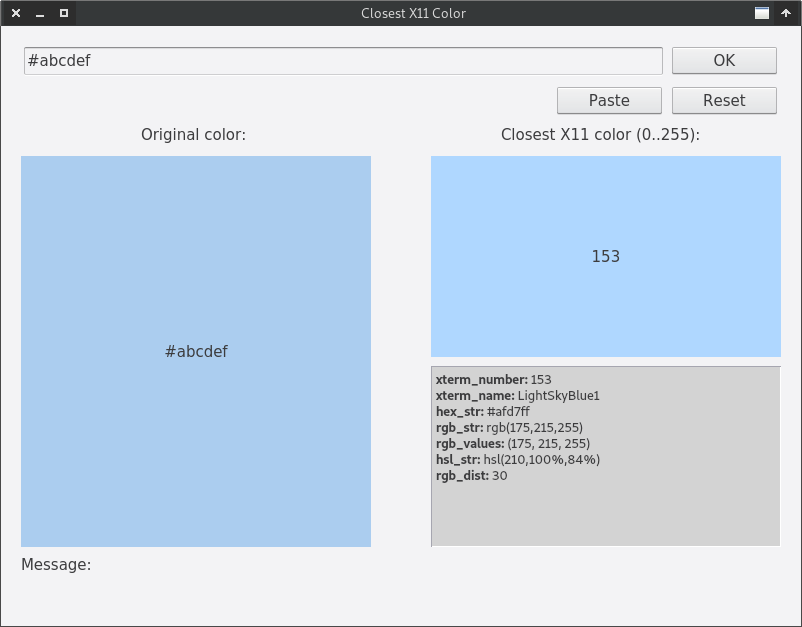
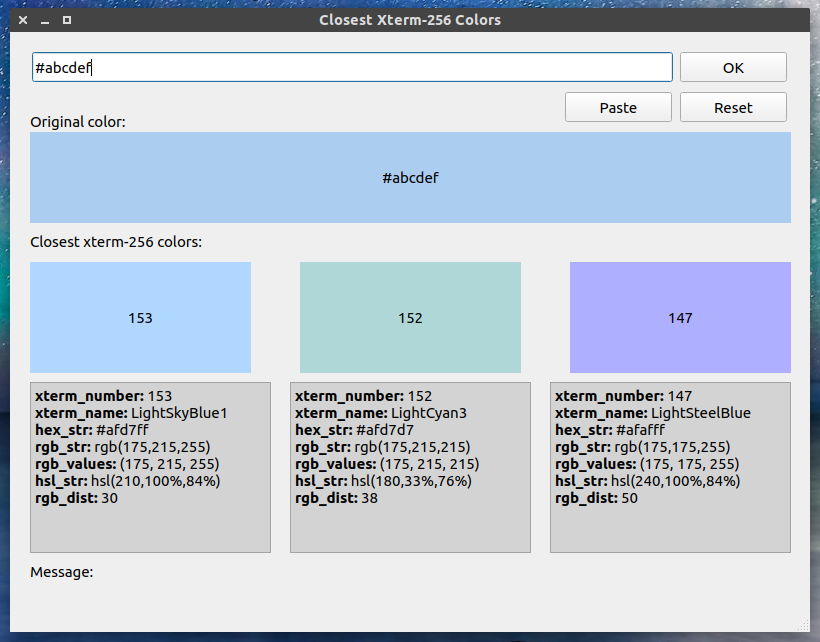
three colors

diff --git a/showMainGui.py b/showMainGui.py
@@ -15,7 +15,7 @@ class Ui_MainWindow(object):
         self.centralwidget = QtWidgets.QWidget(MainWindow)
         self.centralwidget.setObjectName("centralwidget")
         self.colorButton = QtWidgets.QPushButton(self.centralwidget)
-        self.colorButton.setGeometry(QtCore.QRect(20, 220, 221, 121))
+        self.colorButton.setGeometry(QtCore.QRect(20, 230, 221, 111))
         font = QtGui.QFont()
         font.setPointSize(11)
         self.colorButton.setFont(font)
@@ -28,10 +28,10 @@ class Ui_MainWindow(object):
         self.label.setGeometry(QtCore.QRect(20, 200, 221, 18))
         self.label.setObjectName("label")
         self.label_2 = QtWidgets.QLabel(self.centralwidget)
-        self.label_2.setGeometry(QtCore.QRect(20, 350, 81, 18))
+        self.label_2.setGeometry(QtCore.QRect(20, 530, 81, 18))
         self.label_2.setObjectName("label_2")
         self.messageLabel = QtWidgets.QLabel(self.centralwidget)
-        self.messageLabel.setGeometry(QtCore.QRect(110, 530, 671, 20))
+        self.messageLabel.setGeometry(QtCore.QRect(100, 530, 681, 20))
         self.messageLabel.setText("")
         self.messageLabel.setObjectName("messageLabel")
         self.hexColor = QtWidgets.QLineEdit(self.centralwidget)
@@ -51,34 +51,34 @@ class Ui_MainWindow(object):
         self.label_3.setGeometry(QtCore.QRect(20, 80, 121, 18))
         self.label_3.setObjectName("label_3")
         self.colorResult = QtWidgets.QTextEdit(self.centralwidget)
-        self.colorResult.setGeometry(QtCore.QRect(20, 370, 241, 181))
+        self.colorResult.setGeometry(QtCore.QRect(20, 350, 241, 171))
         self.colorResult.setStyleSheet("background-color: lightgray")
         self.colorResult.setObjectName("colorResult")
         self.colorButton_2 = QtWidgets.QPushButton(self.centralwidget)
-        self.colorButton_2.setGeometry(QtCore.QRect(290, 220, 221, 121))
+        self.colorButton_2.setGeometry(QtCore.QRect(290, 230, 221, 111))
         font = QtGui.QFont()
         font.setPointSize(11)
         self.colorButton_2.setFont(font)
         self.colorButton_2.setStyleSheet("background-color: rgb(46, 204, 113); border: none;")
         self.colorButton_2.setObjectName("colorButton_2")
         self.colorButton_3 = QtWidgets.QPushButton(self.centralwidget)
-        self.colorButton_3.setGeometry(QtCore.QRect(560, 220, 221, 121))
+        self.colorButton_3.setGeometry(QtCore.QRect(560, 230, 221, 111))
         font = QtGui.QFont()
         font.setPointSize(11)
         self.colorButton_3.setFont(font)
         self.colorButton_3.setStyleSheet("background-color: rgb(46, 204, 113); border: none;")
         self.colorButton_3.setObjectName("colorButton_3")
         self.colorResult_2 = QtWidgets.QTextEdit(self.centralwidget)
-        self.colorResult_2.setGeometry(QtCore.QRect(280, 370, 241, 181))
+        self.colorResult_2.setGeometry(QtCore.QRect(280, 350, 241, 171))
         self.colorResult_2.setStyleSheet("background-color: lightgray")
         self.colorResult_2.setObjectName("colorResult_2")
         self.colorResult_3 = QtWidgets.QTextEdit(self.centralwidget)
-        self.colorResult_3.setGeometry(QtCore.QRect(540, 370, 241, 181))
+        self.colorResult_3.setGeometry(QtCore.QRect(540, 350, 241, 171))
         self.colorResult_3.setStyleSheet("background-color: lightgray")
         self.colorResult_3.setObjectName("colorResult_3")
         MainWindow.setCentralWidget(self.centralwidget)
         self.menubar = QtWidgets.QMenuBar(MainWindow)
-        self.menubar.setGeometry(QtCore.QRect(0, 0, 800, 20))
+        self.menubar.setGeometry(QtCore.QRect(0, 0, 800, 22))
         self.menubar.setObjectName("menubar")
         MainWindow.setMenuBar(self.menubar)
         self.statusbar = QtWidgets.QStatusBar(MainWindow)
@@ -93,10 +93,10 @@ class Ui_MainWindow(object):
 
     def retranslateUi(self, MainWindow):
         _translate = QtCore.QCoreApplication.translate
-        MainWindow.setWindowTitle(_translate("MainWindow", "Closest Xterm-256 Color"))
+        MainWindow.setWindowTitle(_translate("MainWindow", "Closest Xterm-256 Colors"))
         self.colorButton.setText(_translate("MainWindow", "Color 1"))
         self.okButton.setText(_translate("MainWindow", "OK"))
-        self.label.setText(_translate("MainWindow", "Closest xterm-256 color (0..255):"))
+        self.label.setText(_translate("MainWindow", "Closest xterm-256 colors:"))
         self.label_2.setText(_translate("MainWindow", "Message:"))
         self.hexColor.setPlaceholderText(_translate("MainWindow", "#ABCDEF"))
         self.pasteButton.setText(_translate("MainWindow", "Paste"))

diff --git a/main.py b/main.py
@@ -2,9 +2,9 @@
 
 """
 Input: an arbitrary HTML hexa code color.
-Output: the closest X11 color from the range 0 .. 255 (included).
+Output: the closest three X11 colors from the range 0 .. 255 (included).
 
-Author: Laszlo Szathmary (jabba.laci@gmail.com), 2018
+Author: Laszlo Szathmary (jabba.laci@gmail.com), 2018--2019
 GitHub: https://github.com/jabbalaci/ClosestX11Color
 """
 
@@ -16,8 +16,8 @@ from PyQt5.QtWidgets import QApplication, QMainWindow, QMessageBox, QPushButton
 
 import dist
 import helper
-import showMainGui
 import readFile
+import showMainGui
 
 
 class Main(QMainWindow, showMainGui.Ui_MainWindow):
@@ -51,7 +51,7 @@ class Main(QMainWindow, showMainGui.Ui_MainWindow):
         # else, if valid hex value was given
         self.messageLabel.setText("")
         (r, g, b) = helper.hex_to_rgb(hex_value)
-        (closest,second,third) = dist.find_closest(self.d,(r, g, b))
+        (closest, second, third) = dist.find_closest(self.d, (r, g, b))
         xterm_number = closest['xterm_number']
         # print(closest)
         btn_text_color = "white" if int(xterm_number) in self.whites else "black"

diff --git a/dist.py b/dist.py
@@ -25,14 +25,10 @@ def find_closest(d, rgb_tuple):
         # print("=" * 78)
     #
     
-    newli = sorted(li, key = lambda e:e['rgb_dist'])
+    newli = sorted(li, key=lambda e: e['rgb_dist'])
+    (closest, second, third) = newli[:3]
     
-    
-    closest = newli[0];
-    second= newli[1]
-    third = newli[2]
-    
-    return (closest,second,third)
+    return (closest, second, third)
 
 
 def find_closest_color(rgb_tuple):

diff --git a/readFile.py b/readFile.py
@@ -1,6 +1,8 @@
-#!/usr/bin/env python3
 import re
+
 INPUT = "colors.csv"
+
+
 def extract_rgb_values(rgb_str):
     m = re.search(r"rgb\((.*),(.*),(.*)\)", rgb_str)
     if m:

diff --git a/README.md b/README.md
@@ -1,7 +1,7 @@
 Closest Xterm-256 Color
 =======================
 
-Find the closest xterm-256 color (between 0 and 255) to an HTML hexa color (e.g. #ABCDEF).
+Find the closest three xterm-256 colors (between 0 and 255) to an HTML hexa color (e.g. #ABCDEF).
 
 Motivation
 ----------
@@ -14,8 +14,11 @@ uses some nice colors. If you find it difficult to pick colors from the
 How to use it? Let's say you find a nice color on an image. Open it in
 Gimp and use its color picker tool to identify the color. However, Gimp
 will tell you the color's HTML hexa code, e.g. #ABCDEF. With this app. you can
-find the closest color from the 256 xterm colors, and then you can immediately
-use that color in your console application.
+find the closest colors from the 256 xterm colors. The application presents
+three choices that you can immediately use in your console application.
+
+New: instead of just one color, the output now contains the closest *three* colors.
+If you don't like the first one, maybe you'll like the second or the third one.
 
 Screenshots
 -----------
@@ -27,6 +30,11 @@ Screenshots
 <p align="center">
   <img width="60%" src="assets/ss2.png">
 </p>
+
+Contributors
+------------
+
+* Zsanett Jámbor ([jamborzsanett](https://github.com/jamborzsanett))
 
 Links and Related Works
 -----------------------
